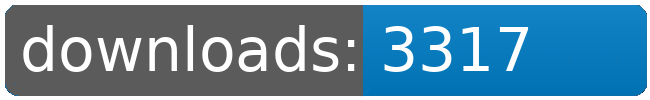
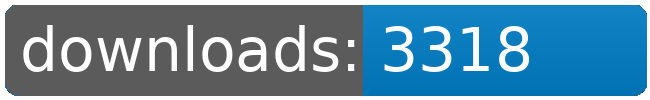
dl log written

Changed region(s): [[0.7692, 0.24, 0.8308, 0.72]]

diff --git a/README.md b/README.md
@@ -43,8 +43,8 @@
 		<td>3247</td>
 		<td>3282</td>
 		<td>3312</td>
-		<td>3317</td>
-		<td>+ 5</td>
+		<td>3318</td>
+		<td>+ 6</td>
 	</tr>
 	<tr>
 		<td>Jaws</td>
@@ -109,8 +109,8 @@
 		<td></td>
 		<td></td>
 		<td></td>
-		<td>21295</td>
-		<td>38</td>
+		<td>21296</td>
+		<td>39</td>
 	</tr>
 </table>
 </sub></sup>
@@ -135,8 +135,8 @@
 		<td>3247</td>
 		<td>3282</td>
 		<td>3312</td>
-		<td>3317</td>
-		<td>+ 5</td>
+		<td>3318</td>
+		<td>+ 6</td>
 	</tr>
 	<tr>
 		<td>Louise.Conglomerate.Shipyards</td>
@@ -223,8 +223,8 @@
 		<td></td>
 		<td></td>
 		<td></td>
-		<td>21295</td>
-		<td>38</td>
+		<td>21296</td>
+		<td>39</td>
 	</tr>
 </table>
 </sub></sup>
